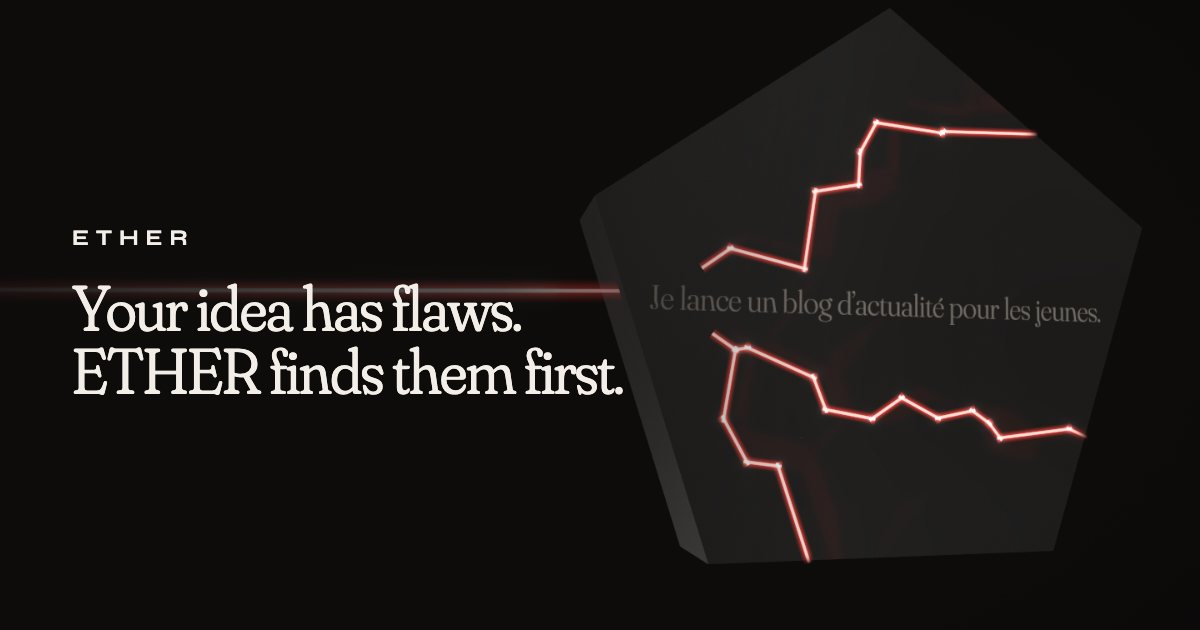
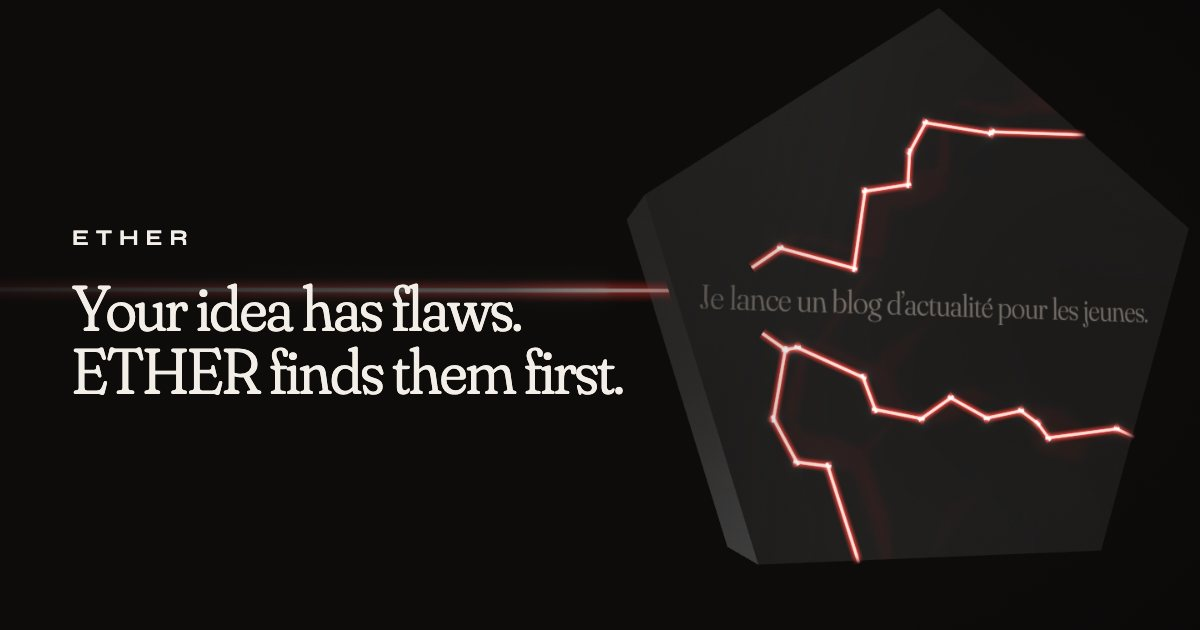
perf(landing): scène au premier geste, lettres à largeur fixe, cadrages revus
La scène démarre à la première interaction ou 5 s après le chargement ;
une image fixe de l'acte 0 tient sa place. Les lettres des titres ont
une largeur fixée à la graisse finale : l'animation ne décale plus rien
(CLS 0,001). Audit (scripts/audit.mjs) : axe, clavier, mouvement réduit,
sans WebGL, scroll réel, fissures et objections.

Changed region(s): [[0.4933, 0.1508, 0.9558, 0.9048]]

diff --git a/landing/src/scene/index.js b/landing/src/scene/index.js
@@ -98,12 +98,13 @@ function cameraKeys(portrait) {
   const d = portrait ? 1.5 : 1;
   const x = portrait ? 0 : 1;
   const keys = [
-    [0.0, [0, 0, 5.5 * d], [0, 0, 0], 0.46 * x, portrait ? -0.42 : 0],
-    [0.1, [0, 0.02, 5.4 * d], [0, 0, 0], 0.46 * x, portrait ? -0.4 : 0],
+    [0.0, [0, 0, 5.5 * d], [0, 0, 0], 0.46 * x, portrait ? -0.64 : 0],
+    [0.1, [0, 0.02, 5.4 * d], [0, 0, 0], 0.46 * x, portrait ? -0.6 : 0],
     [0.2, [-0.05, 0.06, 3.6], [0.1, 0, -6], 0.32 * x, 0],
     [0.28, [-0.1, 0.1, 1.5], [0.1, 0, -10], 0.26 * x, 0],
-    [0.34, [0, 0.2, 4 * d], [0, 0, 0], 0.44 * x, portrait ? -0.18 : 0],
-    [0.44, [0.12, 0.26, 4.2 * d], [0, 0, 0], 0.44 * x, portrait ? -0.18 : 0],
+    // Acte 2 : le prisme assez à droite pour que la carte de la démo ne cache pas ses fissures.
+    [0.34, [0, 0.2, 4 * d], [0, 0, 0], 0.52 * x, portrait ? -0.18 : 0],
+    [0.44, [0.12, 0.26, 4.2 * d], [0, 0, 0], 0.52 * x, portrait ? -0.18 : 0],
     [0.475, [0, 0.35, 5.6 * d], [0, 0, -1.5], 0.36 * x, 0],
     [0.505, [0, 0.08, 4.4], [0, -0.05, -6], 0.3 * x, 0],
   ];
@@ -114,8 +115,9 @@ function cameraKeys(portrait) {
     [0.72, [0, 1.0, 6.5 * d], [0, 0, -5], 0.3 * x, 0],
     [0.8, [0, 1.2, 8.5 * d], [0, 0, -3], 0.3 * x, 0],
     [0.9, [0, 0.55, 7.4 * d], [0, 0.1, 0], 0.26 * x, 0.04],
-    [0.95, [0, 0.3, 7.4 * d], [0, 0.05, 0], 0.2 * x, 0.14],
-    [1.0, [0, 0.1, 7.4 * d], [0, 0.05, 0], 0, portrait ? 0.3 : 0.32],
+    // Logo reconstruit au-dessus de l'appel final, sans toucher le titre.
+    [0.95, [0, 0.3, 7.8 * d], [0, 0.05, 0], 0.2 * x, 0.16],
+    [1.0, [0, 0.1, 8.2 * d], [0, 0.05, 0], 0, portrait ? 0.4 : 0.44],
   );
   return keys;
 }
@@ -681,6 +683,6 @@ export async function createScene({ light, forcedProgress = null, onFallback }) 
     setProgress(p) {
       forcedProgress = p;
     },
-    debug: import.meta.env.DEV ? { scene, camera, renderer, composer, beamIn, beamTunnel, cracks, shards } : undefined,
+    debug: import.meta.env.DEV ? { scene, camera, renderer, composer, beamIn, beamTunnel, cracks, shards, state } : undefined,
   };
 }

diff --git a/landing/src/styles/main.css b/landing/src/styles/main.css
@@ -151,12 +151,13 @@ strong { font-weight: 500; color: var(--text); }
 .js [data-split]:not(.is-split) { opacity: 0; animation: split-fallback 0s linear 2.5s forwards; }
 @keyframes split-fallback { to { opacity: 1; } }
 .is-split .w { display: inline-block; white-space: nowrap; }
+/* Repos : graisse finale, pour mesurer la largeur de chaque lettre (fixée en em
+   par ui.js) ; l'animation de graisse ne décale alors rien autour d'elle. */
 .is-split .ch {
   display: inline-block;
   opacity: 0;
   translate: 0 0.35em;
-  font-weight: 200;
-  font-variation-settings: "opsz" 144, "SOFT" 0;
+  text-align: center;
   transform: skewY(var(--skew, 0deg));
 }
 .is-split.is-in .ch {
@@ -256,6 +257,22 @@ main, .site-footer { position: relative; z-index: 2; }
   background-size: cover;
   background-repeat: no-repeat;
 }
+/* Image fixe de l'acte 0, le temps que la scène démarre ; elle s'efface ensuite. */
+.scene-still {
+  position: fixed;
+  inset: 0;
+  z-index: 0;
+  pointer-events: none;
+  background: var(--bg) url(/hero-desktop.webp) 50% 50% / cover no-repeat;
+  transition: opacity 900ms ease;
+}
+@media (max-width: 767px) {
+  .scene-still { background-image: url(/hero-mobile.webp); }
+}
+.scene-live .scene-still { opacity: 0; }
+.no-js .scene-still,
+.scene-fallback .scene-still,
+.poster-mode .scene-still { display: none; }
 /* L'image fixe remplace la scène : sans JavaScript, sans WebGL, contexte perdu. */
 .no-js .scene-poster,
 .scene-fallback .scene-poster { display: block; }
@@ -634,6 +651,7 @@ main, .site-footer { position: relative; z-index: 2; }
 @media (prefers-reduced-motion: reduce) {
   .js [data-split]:not(.is-split) { opacity: 1; animation: none; }
   .scene-poster { display: block; }
+  .scene-still { display: none; }
   .scene-canvas { display: none; }
   .scroll-hint { animation: none; opacity: 0.6; }
   .logo .lg-s { animation: none !important; }

diff --git a/landing/src/main.js b/landing/src/main.js
@@ -60,6 +60,7 @@ function bootScene() {
       }),
     )
     .then(async (scene) => {
+      html.classList.add('scene-live');
       if (import.meta.env.DEV) window.__ether = scene;
       const motion = await motionReady;
       if (motion) scene.setScrollSource(motion.scrollValue);
@@ -75,8 +76,27 @@ function bootScene() {
 if (state.reducedMotion && !posterMode) showPoster();
 else if (!hasWebGL2()) showPoster();
 else {
-  const idle = window.requestIdleCallback || ((cb) => setTimeout(cb, 200));
-  const later = () => idle(bootScene, { timeout: 1500 });
-  if (document.readyState === 'complete') later();
-  else window.addEventListener('load', later, { once: true });
+  // La scène démarre à la première interaction (souris, toucher, molette,
+  // clavier, scroll) ou 5 s après le chargement. D'ici là, une image fixe de
+  // l'acte 0 tient sa place : le premier affichage reste léger, sans écran d'entrée.
+  const start = () => {
+    if (posterMode || devProgress !== null) {
+      bootScene();
+      return;
+    }
+    const events = ['pointermove', 'pointerdown', 'wheel', 'touchstart', 'keydown', 'scroll'];
+    let started = false;
+    let timer = 0;
+    const go = () => {
+      if (started) return;
+      started = true;
+      for (const e of events) window.removeEventListener(e, go);
+      clearTimeout(timer);
+      bootScene();
+    };
+    for (const e of events) window.addEventListener(e, go, { passive: true });
+    timer = setTimeout(go, 5000);
+  };
+  if (document.readyState === 'complete') start();
+  else window.addEventListener('load', start, { once: true });
 }

diff --git a/landing/src/ui.js b/landing/src/ui.js
@@ -8,7 +8,7 @@ import { state, emit, on } from './lib/state.js';
  * avec moins d'animations, rien n'est découpé : le texte s'affiche normalement.
  * L'animation elle-même est en CSS (styles/main.css) : elle part sans attendre GSAP.
  */
-export function initKinetic() {
+export async function initKinetic() {
   const heads = [...document.querySelectorAll('[data-split]')];
   for (const h of heads) {
     h.setAttribute('aria-label', h.textContent.replace(/\s+/g, ' ').trim());
@@ -33,6 +33,19 @@ export function initKinetic() {
       });
     }
     h.classList.add('is-split');
+  }
+  // Largeur de chaque lettre fixée en em, mesurée à la graisse finale une fois
+  // Fraunces chargée : l'animation de graisse ne déplace pas le reste de la ligne.
+  try {
+    await Promise.race([document.fonts ? document.fonts.load('340 64px Fraunces') : null, new Promise((r) => setTimeout(r, 1800))]);
+  } catch {
+    // Police indisponible : les largeurs seront celles de la police de secours.
+  }
+  for (const h of heads) {
+    const size = parseFloat(getComputedStyle(h).fontSize) || 16;
+    const chars = [...h.querySelectorAll('.ch')];
+    const widths = chars.map((c) => c.getBoundingClientRect().width);
+    chars.forEach((c, k) => c.style.setProperty('width', `${(widths[k] / size).toFixed(4)}em`));
   }
   const io = new IntersectionObserver(
     (entries) => {

diff --git a/landing/src/template.html b/landing/src/template.html
@@ -36,6 +36,7 @@
 <body>
 <a class="skip-link" href="#contenu">{{ skip }}</a>
 <div class="scene-poster" aria-hidden="true"></div>
+<div class="scene-still" aria-hidden="true"></div>
 <div class="scene-scrim" aria-hidden="true"></div>
 
 <header class="site-nav" data-nav>
